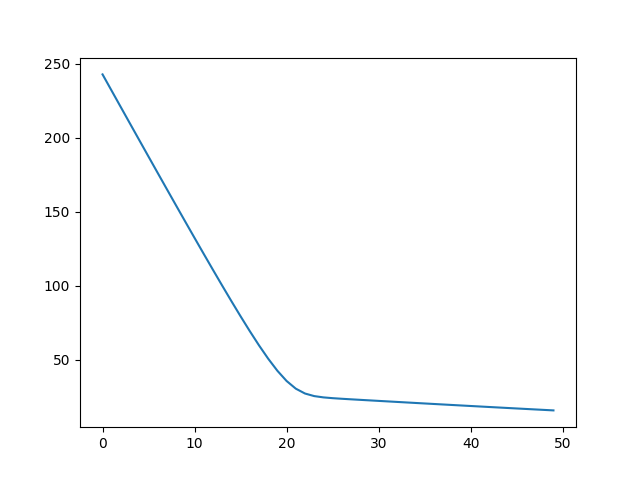
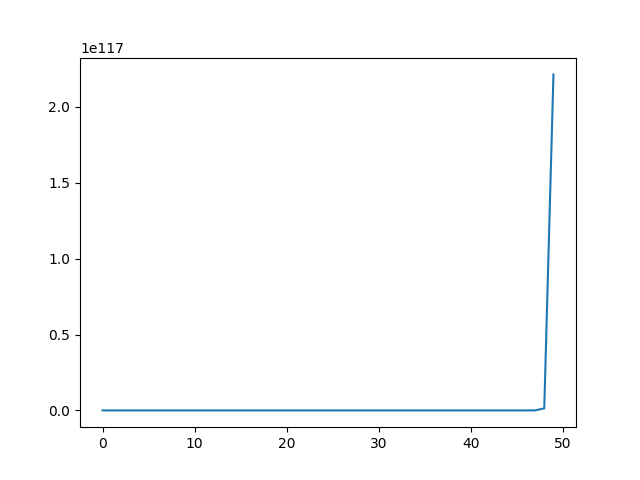
Task 2 fixes

diff --git a/Task2.py b/Task2.py
@@ -14,11 +14,11 @@ b = np.array([19.20927724, 45.17305068, 0.43302717, 37.00013531, 72.33081754, 46
 
 
 def calculate_objective(x):
-    return 1/(2*A.shape[0]) * np.linalg.norm(A @ x - b, 2)
+    return 1/(2*A.shape[0]) * np.linalg.norm(A @ x - b, 2)**2
 
 
 def compute_gradient(x):
-    return 1/(2 * A.shape[0]) * (A.transpose() @ (A @ x - b))/np.linalg.norm(A @ x - b, 2)
+    return 2 * A.transpose() @ (A @ x - b)
 
 
 def gradient_descent(x0, step_size, end_condition):
@@ -34,23 +34,36 @@ def gradient_descent(x0, step_size, end_condition):
     return x1, results
 
 
-start1 = np.array([1, 5, 9, 7, 3]).transpose()
-start2 = np.array([1, 1, 1, 2, 1]).transpose()
+start = np.array([1, 5, 9, 7, 3]).transpose()
+x20 = np.array([8.9, 8.9, 8.9, 8.9, 8.9]).transpose()
 end = 0.0001
 
-L1 = 1/A.shape[0] * np.linalg.norm(A)
-L2_max = 1/A.shape[0] * (np.linalg.norm(A.transpose() @ A) * np.linalg.norm(start2) + np.linalg.norm(A.transpose()@b))
-print(L2_max)
+L1 = (1/A.shape[0]) * np.linalg.norm(A, 2)**2
+L2 = 1/A.shape[0] * (np.linalg.norm(A.transpose() @ A) * np.linalg.norm(x20) + np.linalg.norm(A.transpose()@b))
 
 step1 = 1/L1
-step2 = 1/400
+step2 = 1/L2
 
-descent1 = gradient_descent(start1, step1, end)
+start_time = time.time()
+descent0 = gradient_descent(start, 0.1, end)
+exec_time = time.time() - start_time
+print(f"Execution time step=0.1 is {exec_time} seconds")
+calculations0 = descent0[1]
+
+start_time = time.time()
+descent1 = gradient_descent(start, step1, end)
+exec_time = time.time() - start_time
+print(f"Execution time step=1/L1 is {exec_time} seconds")
 calculations1 = descent1[1]
 
-descent2 = gradient_descent(start2, step2, end)
+start_time = time.time()
+descent2 = gradient_descent(start, step2, end)
+exec_time = time.time() - start_time
+print(f"Execution time step=1/L2 is {exec_time} seconds")
 calculations2 = descent2[1]
 
+plt.plot(calculations0)
+plt.show()
 plt.plot(calculations1)
 plt.show()
 plt.plot(calculations2)

diff --git a/README.md b/README.md
@@ -15,17 +15,17 @@ Step sizes 0.1 and 0.01 don't converge
 
 Step size 0.1:
 
-Execution time is 0.0011522769927978516 seconds
+Execution time is 0.0009922981262207031 seconds
 ![Figure 7](Figure_7.png)
 
-Step size L1:
+Step size 1/L1:
 
-Execution time is 0.0010976791381835938 seconds
+Execution time is 0.0010688304901123047 seconds
 ![Figure 6](Figure_6.png)
 
-Step size L2 for ||x|| < 20:
+Step size 1/L2 for ||x|| < 20:
 
-Execution time is 0.0009999275207519531 seconds
+Execution time is 0.000997304916381836 seconds
 ![Figure 8](Figure_8.png)
 L2 <= 49452
 I chose L2 = 400
